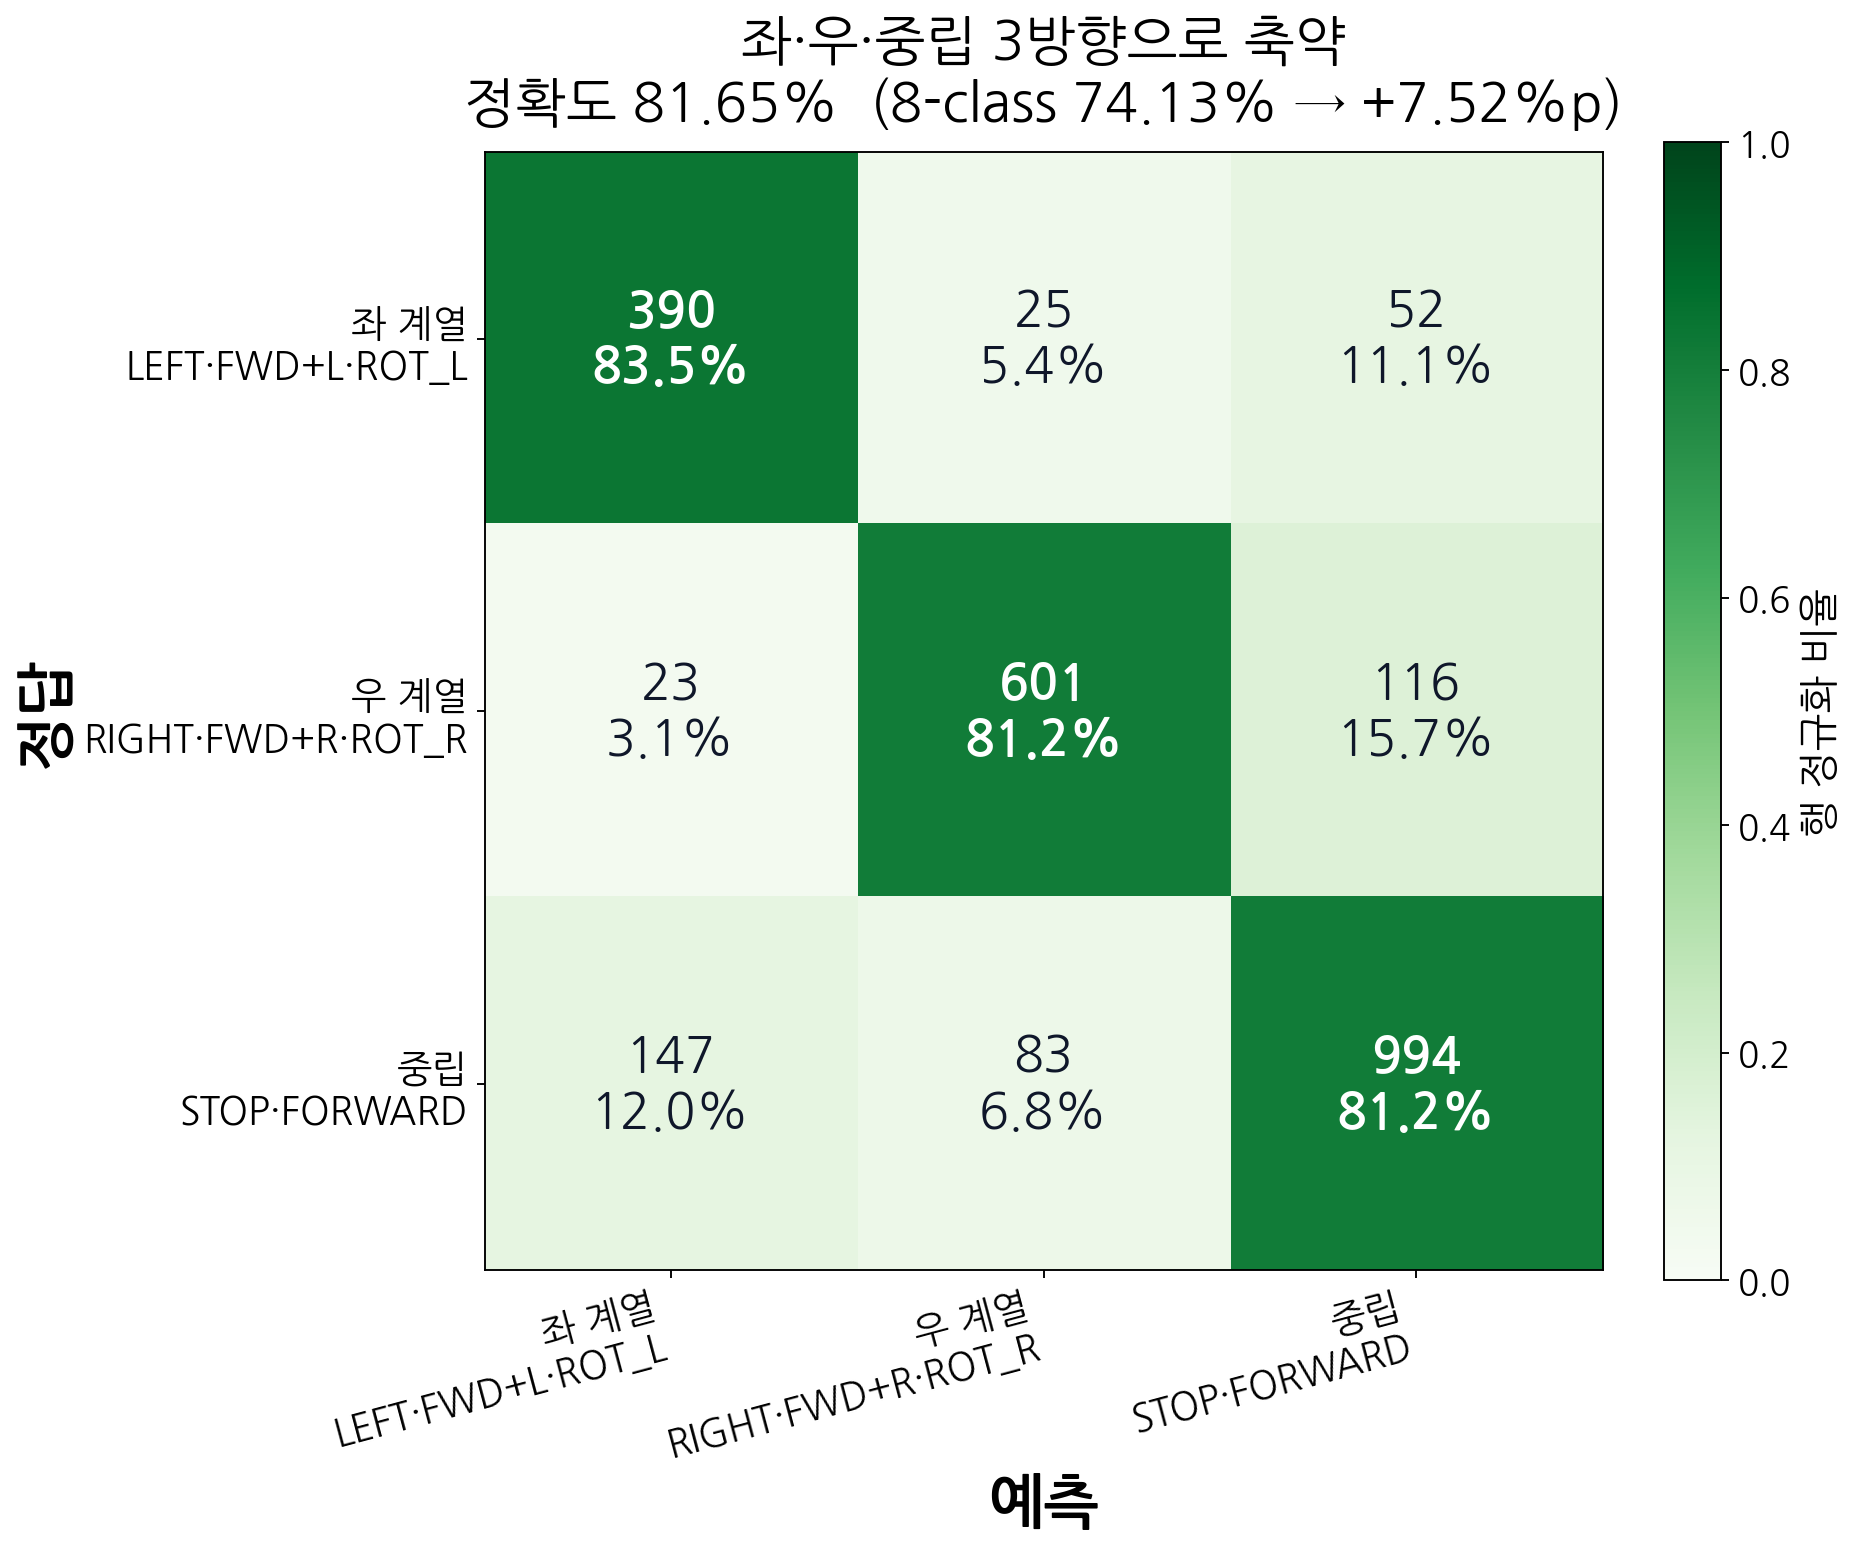
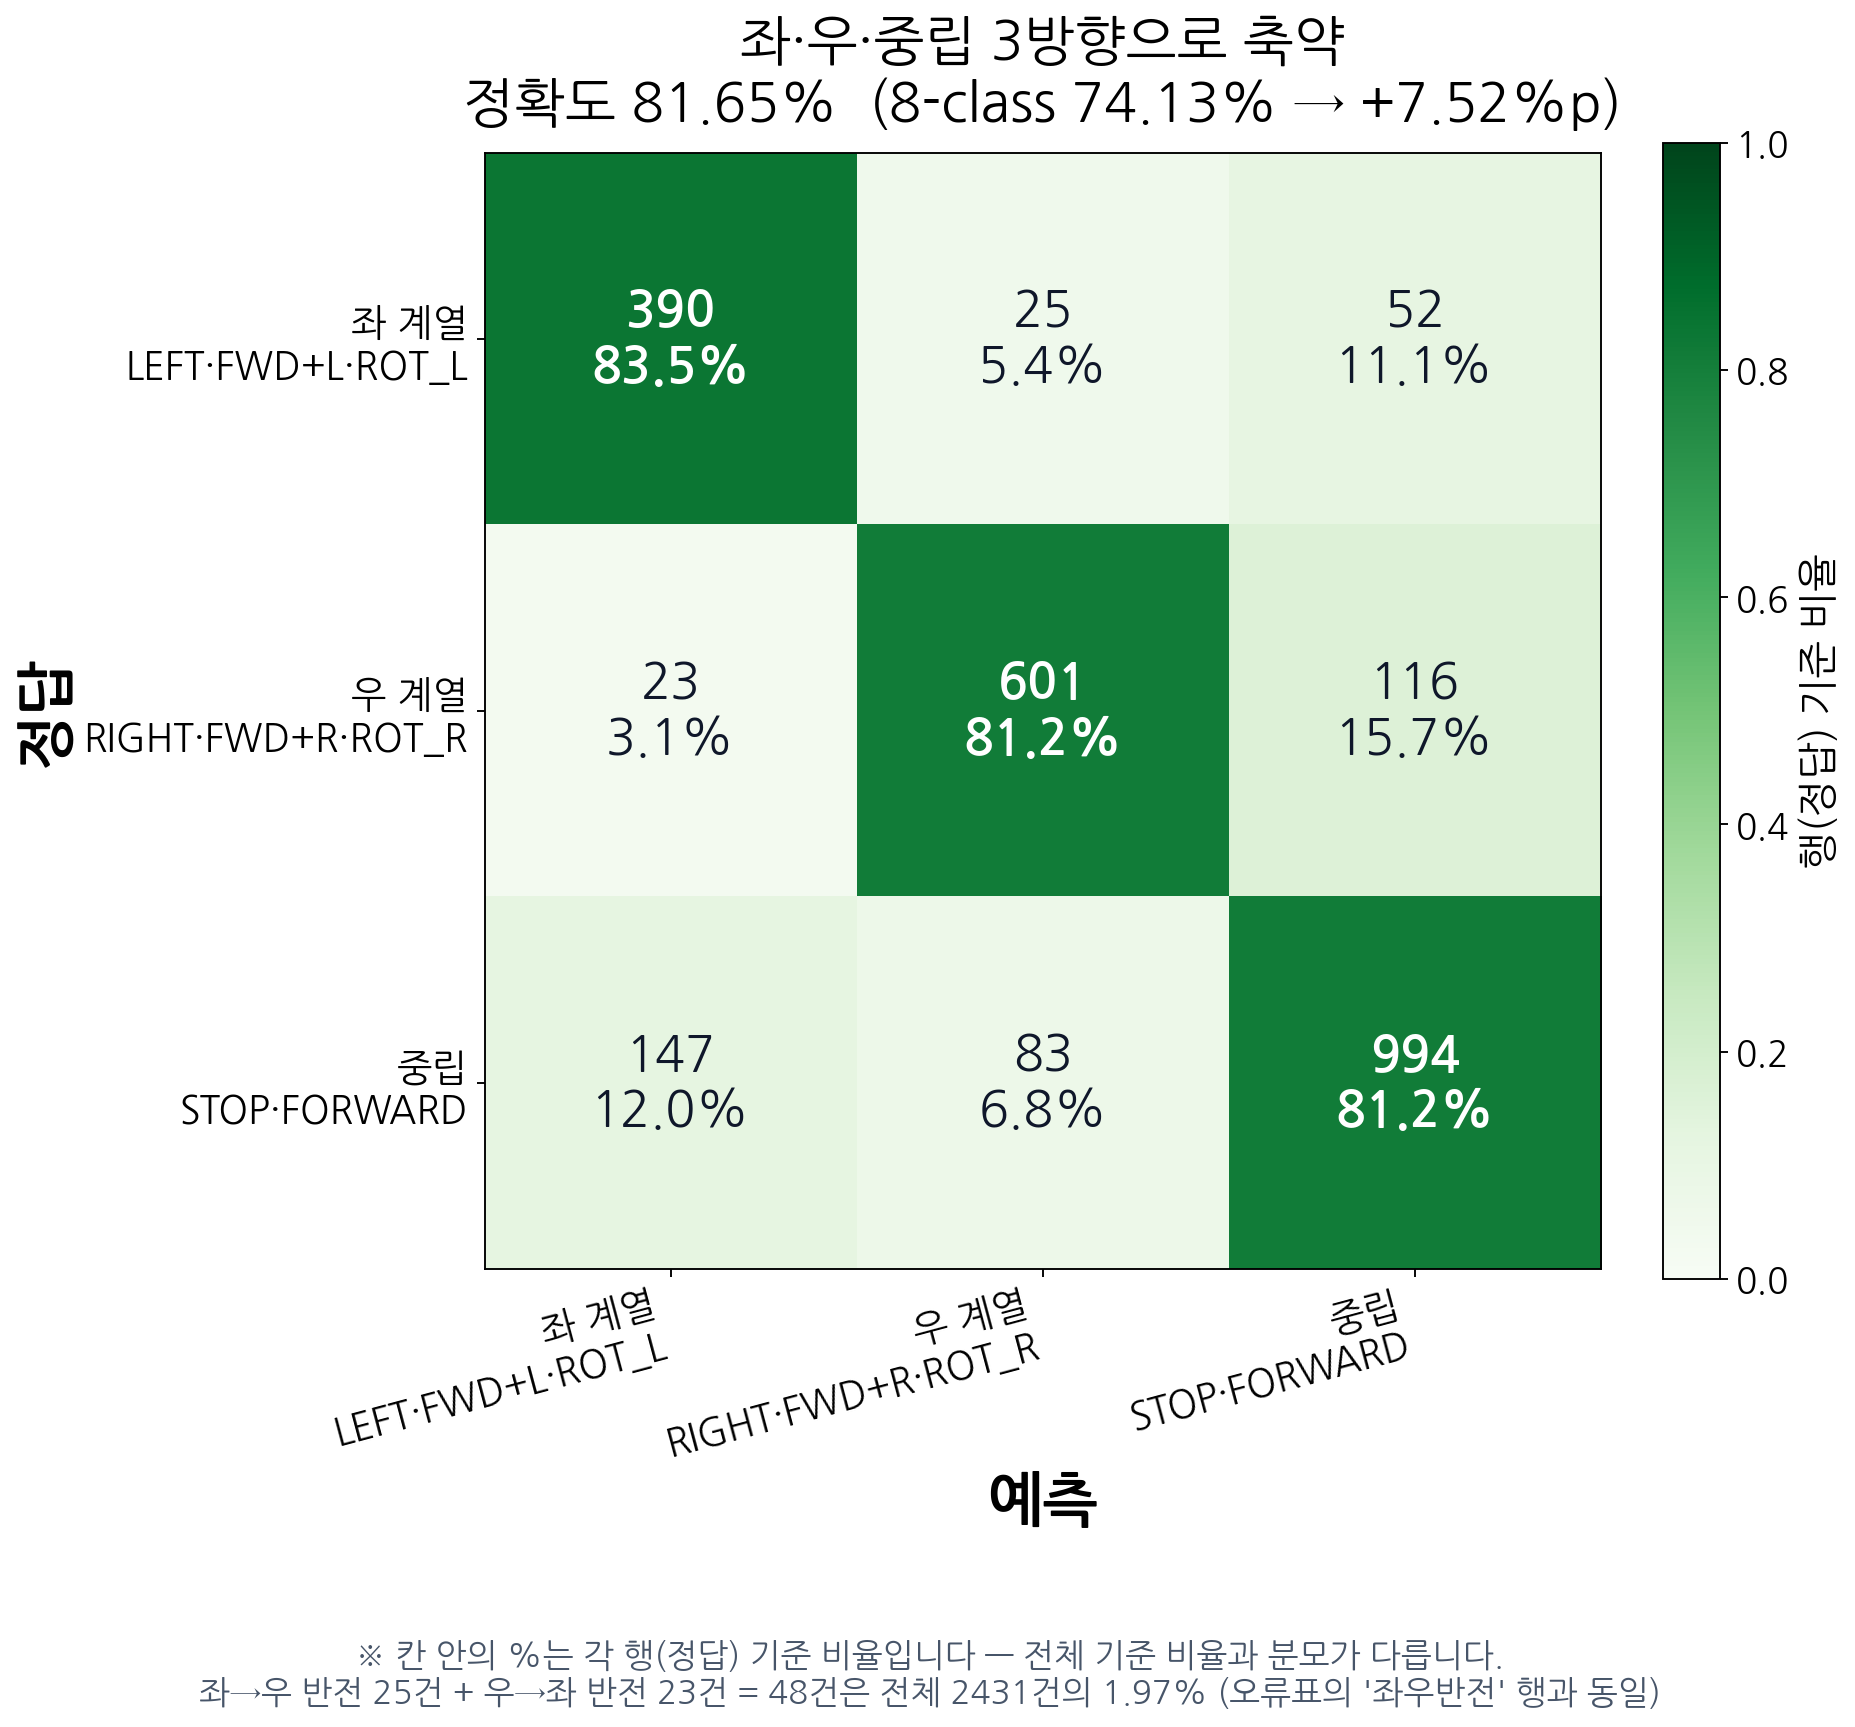
docs: reconcile 3x3 confusion-matrix percentages with the error-severity table
The 3x3 collapsed matrix's cell percentages (5.4%/3.1%) are row-normalized
(per direction-family), while the error-severity table's 1.97% is over the
full 2431-sample total -- both correct, different denominators. Added a
footnote directly on the 3x3 figure spelling out the reconciliation
(25+23=48 flips = 1.97% of total, matching the table) so the two don't
read as contradictory. Table left unchanged per request.

diff --git a/scripts/plot_action_head_error_severity.py b/scripts/plot_action_head_error_severity.py
@@ -115,9 +115,17 @@ def main():
     ax2.set_xlabel("예측", fontsize=25, fontweight="bold"); ax2.set_ylabel("정답", fontsize=25, fontweight="bold")
     ax2.set_title(f"좌·우·중립 3방향으로 축약\n정확도 {acc3*100:.2f}%  (8-class 74.13% → +{acc3*100-74.13:.2f}%p)",
                   fontsize=23, pad=14)
-    cbar = fig2.colorbar(im, ax=ax2, fraction=0.046, label="행 정규화 비율")
+    cbar = fig2.colorbar(im, ax=ax2, fraction=0.046, label="행(정답) 기준 비율")
     cbar.ax.tick_params(labelsize=15)
-    cbar.set_label("행 정규화 비율", fontsize=17)
+    cbar.set_label("행(정답) 기준 비율", fontsize=17)
+
+    flip_lr = int(a[0][1]); flip_rl = int(a[1][0])
+    fig2.text(0.5, -0.05,
+        f"※ 칸 안의 %는 각 행(정답) 기준 비율입니다 — 전체 기준 비율과 분모가 다릅니다.\n"
+        f"좌→우 반전 {flip_lr}건 + 우→좌 반전 {flip_rl}건 = {flip_lr+flip_rl}건은 전체 {total}건의 "
+        f"{(flip_lr+flip_rl)/total*100:.2f}% (오류표의 '좌우반전' 행과 동일)",
+        ha="center", fontsize=14, color="#475569")
+
     fig2.tight_layout()
     fig2.savefig(OUT_3X3, dpi=170, facecolor="white", bbox_inches="tight")
     print(f"저장: {OUT_3X3.relative_to(ROOT)}")
